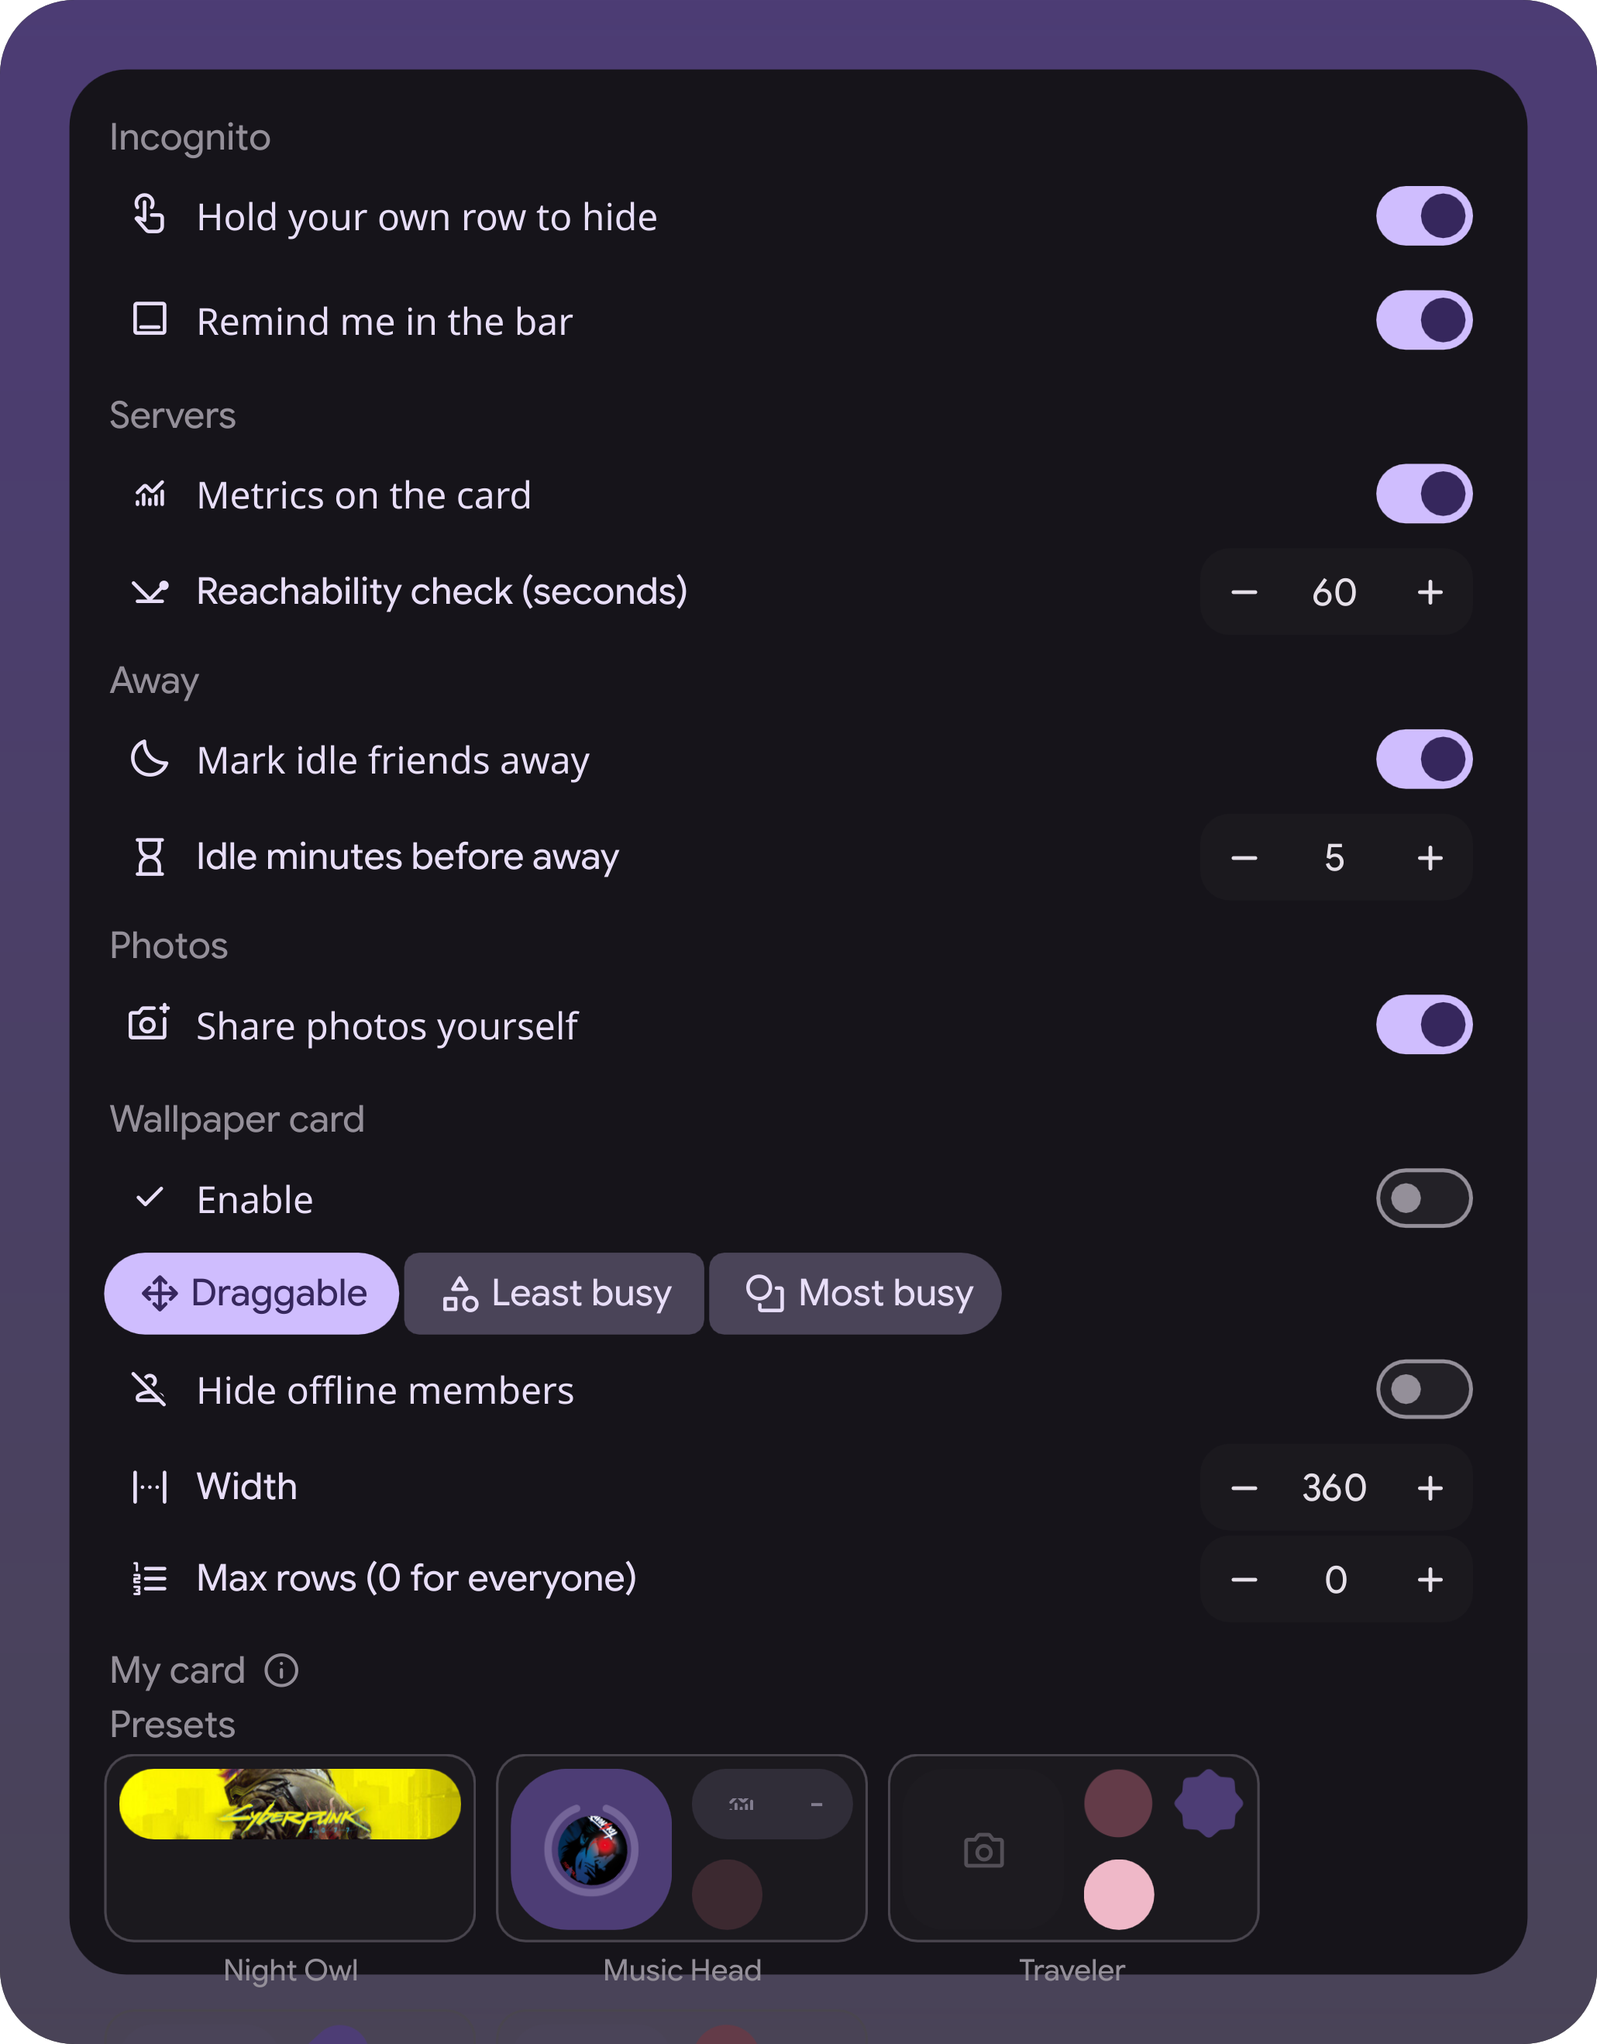
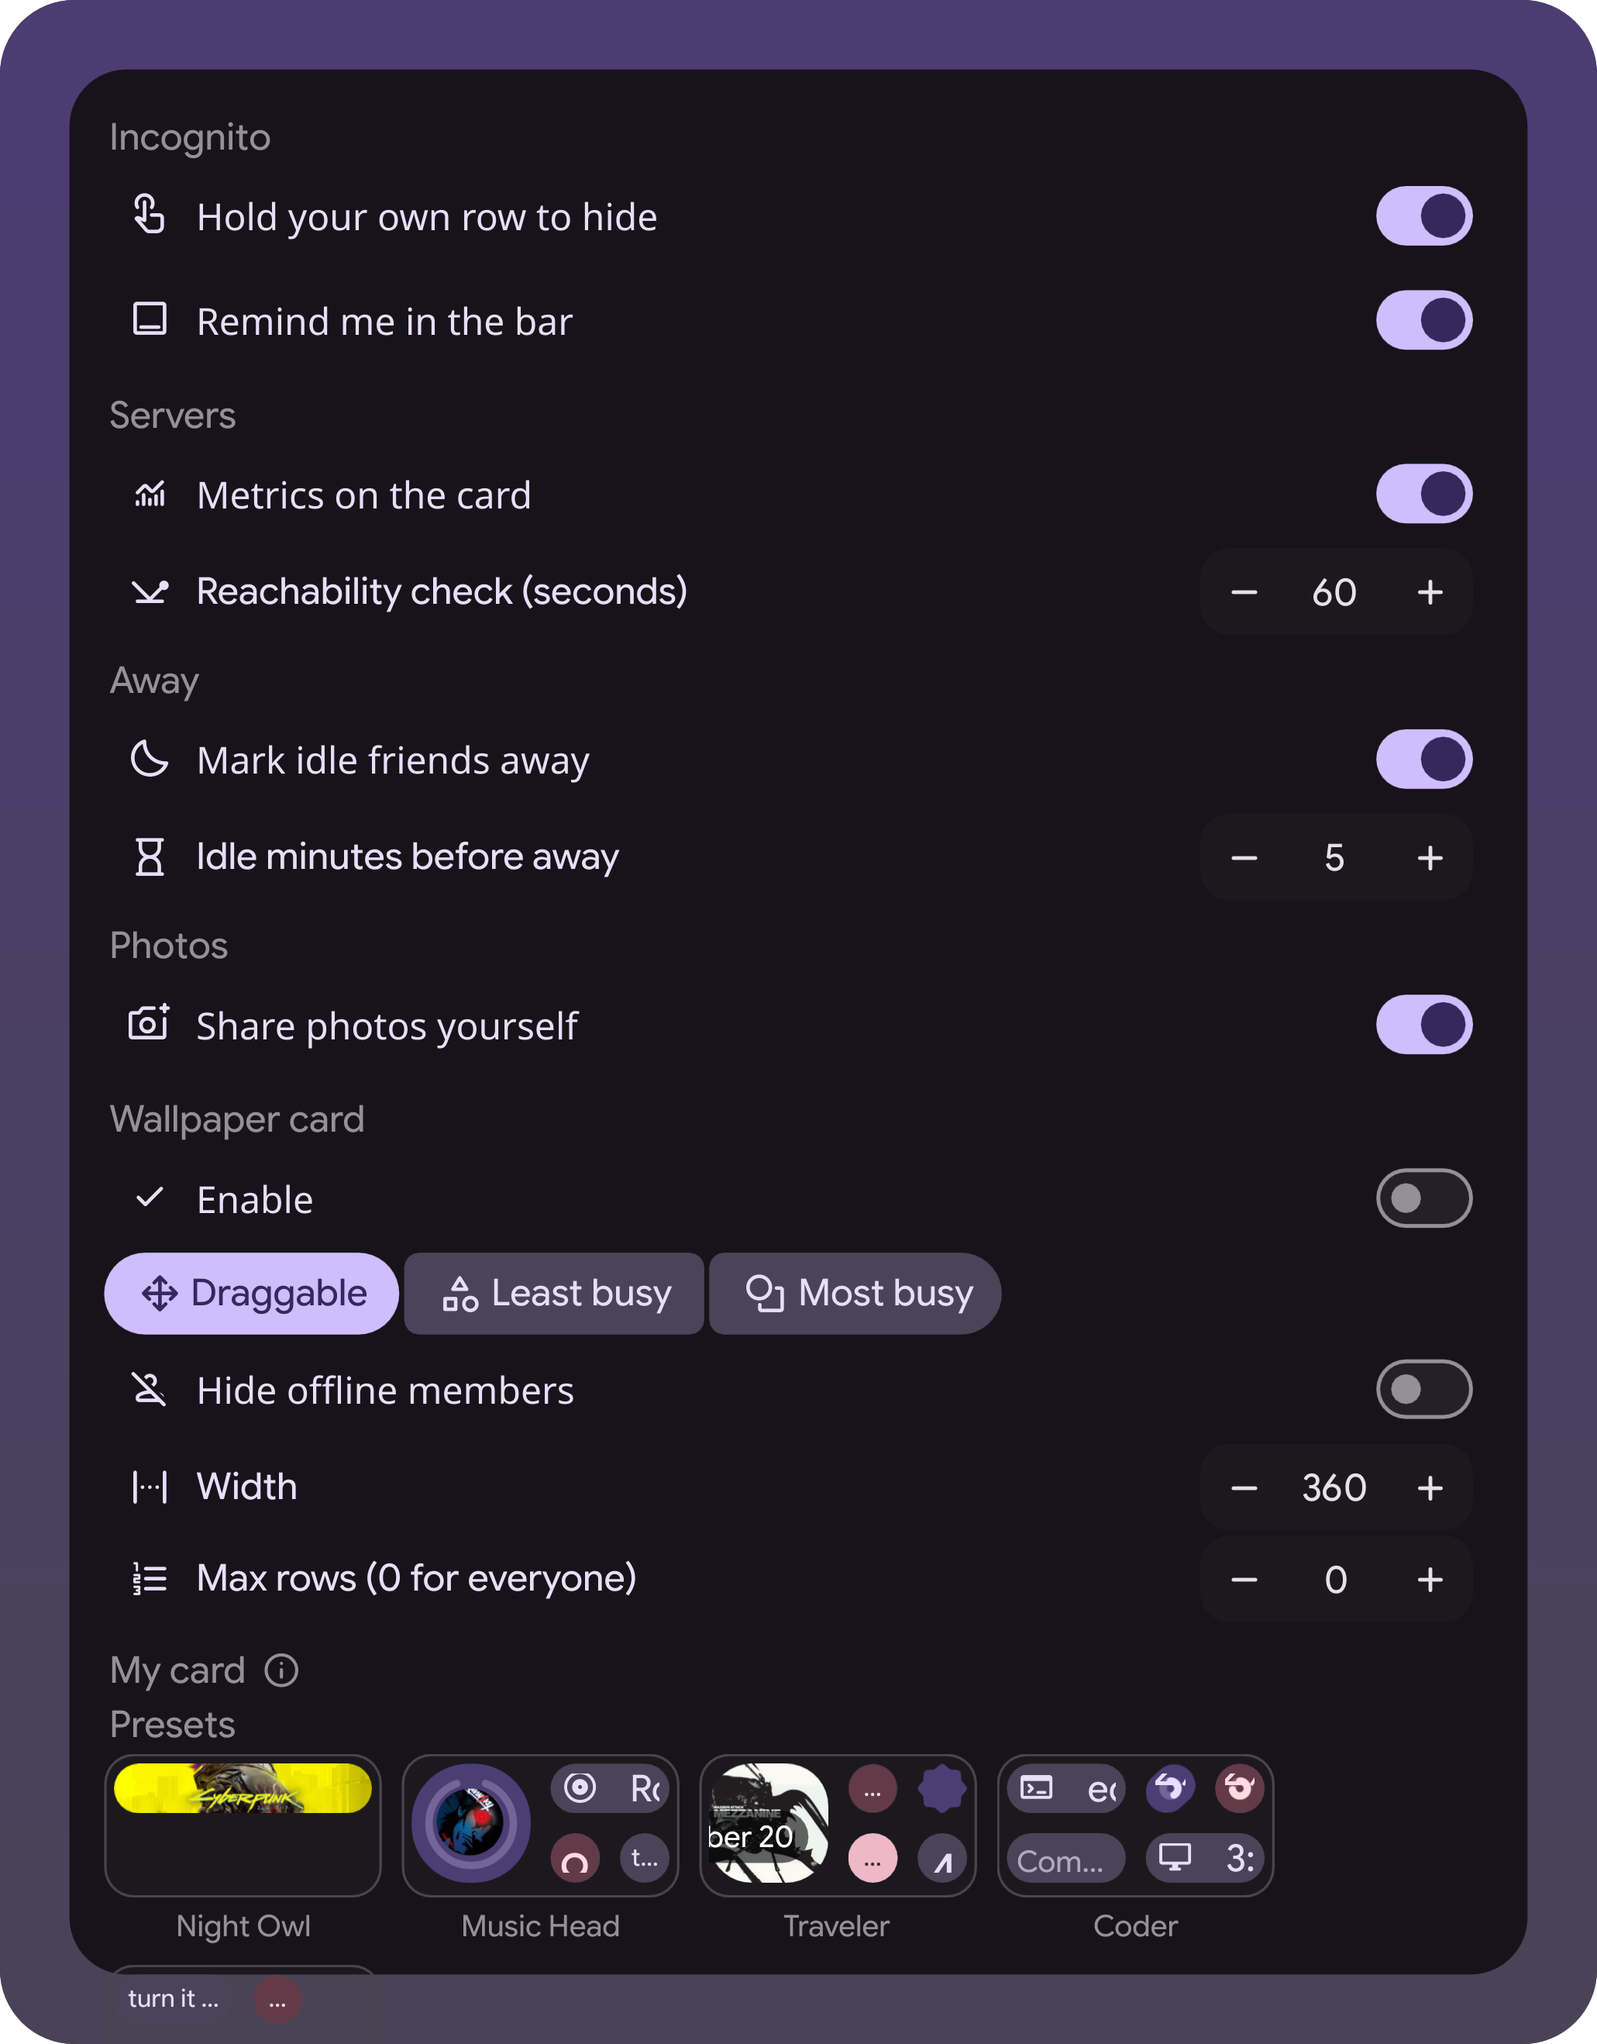
settings: fix editor source list and demo data, compact My card
Source chips and the live preview only ever showed Music/Game/Photo
because the demo probe's self account had no cpu/mem/disk or custom
fields to read - DemoCardEditor now ingests a self account with
plausible hardware numbers and two custom fields. sourceOptionsFor
also keeps a chip for any field the layout already names even where
the device stops reporting it, instead of the chip just vanishing.
Preset thumbnails get the fields (streak, top_artist, listening...)
and a demo photo they were missing, so every preset reads instead of
showing dashes.

Shrunk the preset thumbnails, colour swatches and silhouette grid,
and dropped a redundant "Selected tile" header, to bring the section
closer to fitting one screen.

Pinned the packer, heatmap and wrap fixes with checks in
DemoFriendsTravelerCoder and DemoCardEditor; regenerated the settings
doc shot.

Changed region(s): [[0.0621, 0.8396, 0.8074, 1.0], [0.0932, 0.9329, 0.2484, 1.0]]

diff --git a/StatusphereSettings.qml b/StatusphereSettings.qml
@@ -54,13 +54,17 @@ ColumnLayout {
             "game_display": "Cyberpunk 2077",
             "game_header_url": String(Qt.resolvedUrl("demo/covers/cp2077-header.jpg")),
             "game_session_seconds": 5400,
-            "custom_fields": ["active_hours", "local_time", "mood", "quote", "genre", "region", "trip_day", "caption", "project", "commits", "focus", "workspace", "note"],
+            "custom_fields": ["active_hours", "local_time", "mood", "quote", "genre", "top_artist", "streak", "listening", "region", "trip_day", "caption", "project", "commits", "focus", "workspace", "note"],
             "active_hours": "6",
             "active_hours_history": [0, 1, 3, 6, 5, 2, 4, 6, 3, 1, 0, 0],
             "local_time": "23:14",
             "mood": "calm",
             "quote": "turn it up",
             "genre": "synthwave",
+            "top_artist": "Robyn",
+            "streak": "9",
+            "listening": "31",
+            "listening_history": [10, 16, 22, 28, 19, 31, 14],
             "region": "kyoto",
             "trip_day": "4",
             "caption": "temple steps",
@@ -72,9 +76,15 @@ ColumnLayout {
             "note": "heads down"
         })
     readonly property var demoAccount: ({
+            "id": "demo-owner",
             "primary": root.demoDevice,
             "devices": [root.demoDevice],
-            "offline": false
+            "offline": false,
+            "_photo": {
+                "path": String(Qt.resolvedUrl("demo/covers/teardrop.jpg")),
+                "created_at": "2026-09-20T12:00:00Z",
+                "expires_at": "2099-01-01T00:00:00Z"
+            }
         })
     readonly property var editTiles: root.editSurface === "row" ? root.editRow : root.editDetail
     readonly property var selectedTile: (root.selectedIndex >= 0 && root.selectedIndex < root.editTiles.length) ? root.editTiles[root.selectedIndex] : null
@@ -274,6 +284,22 @@ ColumnLayout {
                     "icon": f.icon,
                     "value": `scalar:${f.key}`
                 }));
+        // A field the layout already names stays a chip even where the device isn't
+        // reporting it this second - live data lags, and this is edited offline too.
+        const known = new Set(options.map(o => o.value));
+        for (const t of root.editTiles) {
+            if (t.type !== "scalar" || !t.field || t.field === "*")
+                continue;
+            const value = `scalar:${t.field}`;
+            if (known.has(value))
+                continue;
+            known.add(value);
+            options.push({
+                "displayName": Statusphere.labelForKey(t.field),
+                "icon": Statusphere.iconForField(t.field),
+                "value": value
+            });
+        }
         options.push({
             "displayName": Translation.tr("Music"),
             "icon": "music_note",
@@ -579,7 +605,7 @@ ColumnLayout {
 
     component ColorSwatches: Row {
         id: swatchesRoot
-        spacing: 6
+        spacing: 4
         required property var options
         property string current: ""
         signal picked(string role)
@@ -608,8 +634,8 @@ ColumnLayout {
             delegate: Rectangle {
                 id: swatch
                 required property string modelData
-                width: 26
-                height: 26
+                width: 20
+                height: 20
                 radius: height / 2
                 color: swatchesRoot.roleColor(swatch.modelData)
                 border.width: swatchesRoot.current === swatch.modelData ? 3 : 1
@@ -632,7 +658,7 @@ ColumnLayout {
     // the same case added here to get a preview instead of falling back to a circle.
     component ShapeGrid: Flow {
         id: shapeGrid
-        spacing: 6
+        spacing: 4
         required property var options
         property string current: ""
         signal picked(string name)
@@ -673,8 +699,8 @@ ColumnLayout {
             delegate: Rectangle {
                 id: shapeSwatch
                 required property string modelData
-                width: 40
-                height: 40
+                width: 30
+                height: 30
                 radius: Appearance.rounding.small
                 color: shapeGrid.current === shapeSwatch.modelData ? Appearance.colors.colSecondaryContainer : Appearance.colors.colLayer2
                 border.width: shapeGrid.current === shapeSwatch.modelData ? 2 : 0
@@ -684,15 +710,15 @@ ColumnLayout {
                     visible: shapeSwatch.modelData === "auto"
                     anchors.centerIn: parent
                     text: "auto_awesome"
-                    iconSize: Appearance.font.pixelSize.large
+                    iconSize: Appearance.font.pixelSize.normal
                     color: Appearance.colors.colOnLayer2
                 }
 
                 Rectangle {
                     visible: shapeSwatch.modelData === "default"
                     anchors.centerIn: parent
-                    width: 20
-                    height: 20
+                    width: 15
+                    height: 15
                     radius: Appearance.rounding.small
                     color: "transparent"
                     border.width: 2
@@ -702,7 +728,7 @@ ColumnLayout {
                 MaterialShape {
                     visible: shapeSwatch.modelData !== "default" && shapeSwatch.modelData !== "auto"
                     anchors.centerIn: parent
-                    implicitSize: 20
+                    implicitSize: 15
                     shape: shapeGrid.shapeEnum(shapeSwatch.modelData)
                     color: Appearance.colors.colOnLayer2
                 }
@@ -742,8 +768,8 @@ ColumnLayout {
                     spacing: 4
 
                     Rectangle {
-                        implicitWidth: 150
-                        implicitHeight: 76
+                        implicitWidth: 112
+                        implicitHeight: 58
                         radius: Appearance.rounding.small
                         color: Appearance.colors.colLayer2
                         border.width: presetDelegate.isSelected ? 2 : 1
@@ -752,7 +778,7 @@ ColumnLayout {
 
                         CardGrid {
                             anchors.fill: parent
-                            anchors.margins: 6
+                            anchors.margins: 4
                             account: root.demoAccount
                             maxRows: 2
                             tiles: root.previewSafe(CardLayouts.get(presetDelegate.modelData)?.row ?? [])
@@ -850,16 +876,12 @@ ColumnLayout {
 
         ColumnLayout {
             Layout.fillWidth: true
-            Layout.topMargin: 8
+            Layout.topMargin: 4
             visible: root.selectedTile !== null
-            spacing: 10
+            spacing: 6
 
             ContentSubsectionLabel {
-                text: Translation.tr("Selected tile")
-            }
-
-            ContentSubsectionLabel {
-                text: Translation.tr("Source")
+                text: Translation.tr("Selected tile - source")
             }
 
             ConfigSelectionArray {

diff --git a/demo/DemoCardEditor.qml b/demo/DemoCardEditor.qml
@@ -16,6 +16,29 @@ Item {
     id: root
     readonly property string layoutPath: `${Directories.config}/statusphere/layout.json`
 
+    // What the editor's "Source" list and live preview read from: a self account with
+    // real hardware numbers and a couple of custom.json fields, so both show something
+    // other than dashes even where this machine has no statusphere agent registered.
+    readonly property var selfRoom: ({
+            "members": [
+                {
+                    "account_id": "acc-owner",
+                    "device_id": "dev-owner",
+                    "device_name": "desktop",
+                    "account_name": "Me",
+                    "last_seen": 1780000000,
+                    "cpu_percent": 37,
+                    "memory_used_mb": 9216,
+                    "memory_total_mb": 32768,
+                    "disk_used_percent": 61,
+                    "disk_free_gb": 180,
+                    "custom_fields": ["project", "mood"],
+                    "project": "statusphere-editor",
+                    "mood": "focused"
+                }
+            ]
+        })
+
     StatusphereSettings {
         id: editor
         width: 400
@@ -31,7 +54,13 @@ Item {
     Timer {
         interval: 300
         running: true
-        onTriggered: check.reload()
+        onTriggered: {
+            check.reload();
+            // Re-asserted after the config.json read a real registered machine might
+            // have finishes, so the shot stays the same self account on every machine.
+            Statusphere.ingest(JSON.stringify(root.selfRoom));
+            Statusphere.selfAccountId = "acc-owner";
+        }
     }
 
     function tile(field, color) {
@@ -51,6 +80,8 @@ Item {
     }
 
     Component.onCompleted: {
+        Statusphere.ingest(JSON.stringify(root.selfRoom));
+        Statusphere.selfAccountId = "acc-owner";
         editor.editRow = [root.tile("cpu", "primaryContainer"), root.tile("mem", "secondaryContainer"), root.tile("disk", "tertiaryContainer")];
         editor.editDetail = [];
         editor.reorderTile(0, 2); // drops "cpu" onto "disk"'s slot: mem, cpu, disk - selects cpu
@@ -95,6 +126,31 @@ Item {
                 "name": "the keep-place switch maps to onMissing: dim",
                 "got": (saved.row ?? []).find(t => t.field === "cpu")?.onMissing,
                 "want": "dim"
+            },
+            {
+                "name": "the source list is built from the self device's real fields",
+                "got": editor.sourceOptionsFor(null).map(o => o.value).filter(v => ["scalar:cpu", "scalar:mem", "scalar:disk", "scalar:project", "scalar:mood"].includes(v)).sort(),
+                "want": ["scalar:cpu", "scalar:disk", "scalar:mem", "scalar:mood", "scalar:project"]
+            },
+            {
+                "name": "the source list still offers a field the layout names even if the device stopped reporting it",
+                "got": (function() {
+                    editor.editRow = editor.editRow.concat([{
+                                "type": "scalar",
+                                "field": "gone_missing",
+                                "form": "text",
+                                "size": "2x1",
+                                "shape": "default",
+                                "color": "secondaryContainer",
+                                "background": {
+                                    "kind": "color",
+                                    "value": "secondaryContainer"
+                                },
+                                "onMissing": "dim"
+                            }]);
+                    return editor.sourceOptionsFor(null).some(o => o.value === "scalar:gone_missing");
+                })(),
+                "want": true
             }
         ];
     }

diff --git a/demo/DemoFriendsTravelerCoder.qml b/demo/DemoFriendsTravelerCoder.qml
@@ -72,7 +72,32 @@ Item {
             ]
         })
 
+    // A generic visual-tree walk, for pinning what a tile actually renders with
+    // instead of just the data that went in.
+    function findAll(item, pred, out) {
+        if (pred(item))
+            out.push(item);
+        for (const c of item.children ?? [])
+            root.findAll(c, pred, out);
+        return out;
+    }
+
     function checks() {
+        const captionTexts = root.findAll(root, it => it.wrapMode !== undefined && it.text !== undefined, []);
+        // A tooltip mirrors the same string in an untouched Text alongside the tile's
+        // own - only the maximumLineCount: 3 one is the tile, so require no copy wraps
+        // mid-word and at least one wraps at word boundaries.
+        const captionsOk = ["Somewhere new", "Refactoring the tile grid"].every(text => {
+            const copies = captionTexts.filter(t => t.text === text);
+            return copies.length > 0 && copies.every(t => t.wrapMode !== Text.Wrap) && copies.some(t => t.wrapMode === Text.WordWrap);
+        });
+
+        const heatmaps = root.findAll(root, it => it.packing !== undefined, []);
+        const commitsDots = heatmaps.find(h => h.count === 7);
+
+        const grids = root.findAll(root, it => it.rowsUsed !== undefined && it.placed !== undefined, []);
+        const packedSolid = grids.every(g => g.placed.reduce((sum, p) => sum + p.cols * p.rows, 0) === g.rowsUsed * g.columns);
+
         return [
             {
                 "name": "the traveler pack counts as a custom layout",
@@ -87,6 +112,29 @@ Item {
             {
                 "name": "both rows drew their detail card open",
                 "got": nomadRow.height > 200 && turingRow.height > 200,
+                "want": true
+            },
+            {
+                "name": "a caption tile wraps at word boundaries, not mid-word",
+                "got": captionsOk,
+                "want": true
+            },
+            {
+                "name": "no pack row is left with an empty grid cell",
+                "got": grids.length > 0 && packedSolid,
+                "want": true
+            },
+            {
+                "name": "the commits heatmap sizes its dots to fill the tile, not a fixed square grid",
+                "got": commitsDots ? Math.max(commitsDots.packing.size * commitsDots.cols / commitsDots.width, commitsDots.packing.size * commitsDots.rows / commitsDots.height) > 0.85 : false,
+                "want": true
+            },
+            {
+                "name": "no pack tile uses the error role",
+                "got": CardLayouts.names().every(n => {
+                    const p = CardLayouts.get(n);
+                    return [...p.row, ...p.detail].every(t => t.color !== "error" && (t.background?.value ?? "") !== "error");
+                }),
                 "want": true
             }
         ];
